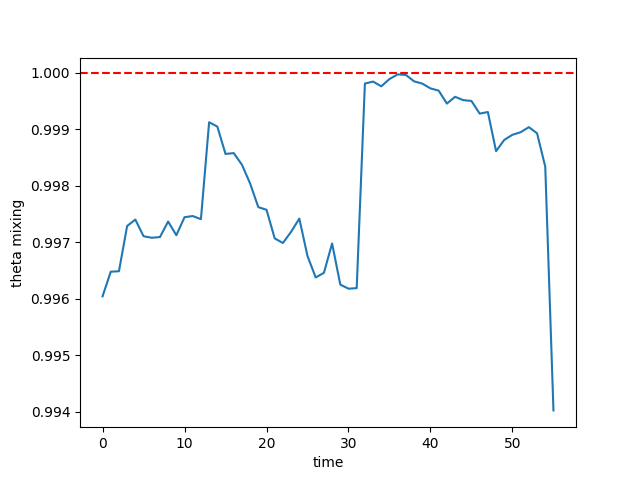
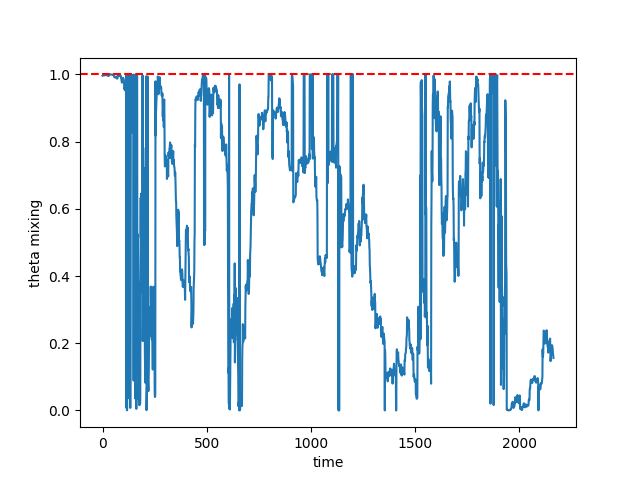
test changing time range

diff --git a/obp.py b/obp.py
@@ -88,7 +88,7 @@ if __name__=="__main__":
     
     ticker = ['VOW.DE','BA', 'AMD', 'AAPL','GME','CVGW','CAMP','WSCI','LNDC','WOR']
     start_date=[2007, 9, 1]
-    end_date=[2010,1,9]
+    end_date=[2020,1,9]
     tau = 500                  #sliding window 
     Nsign = 3                  #Significative portfolios 
     data = Data(name=ticker)
